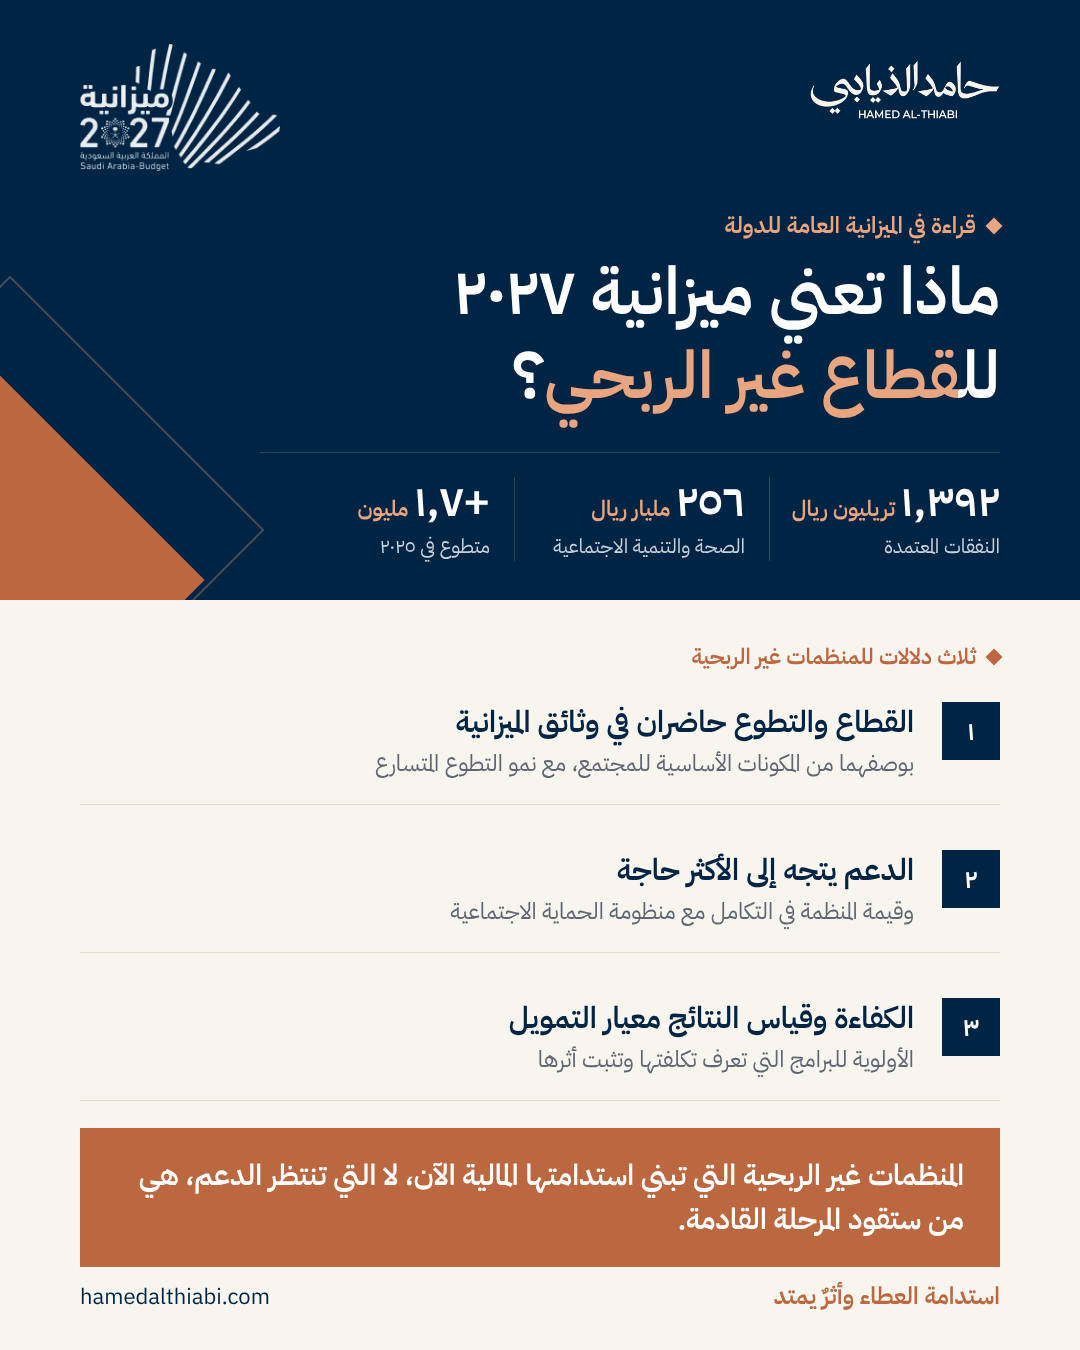
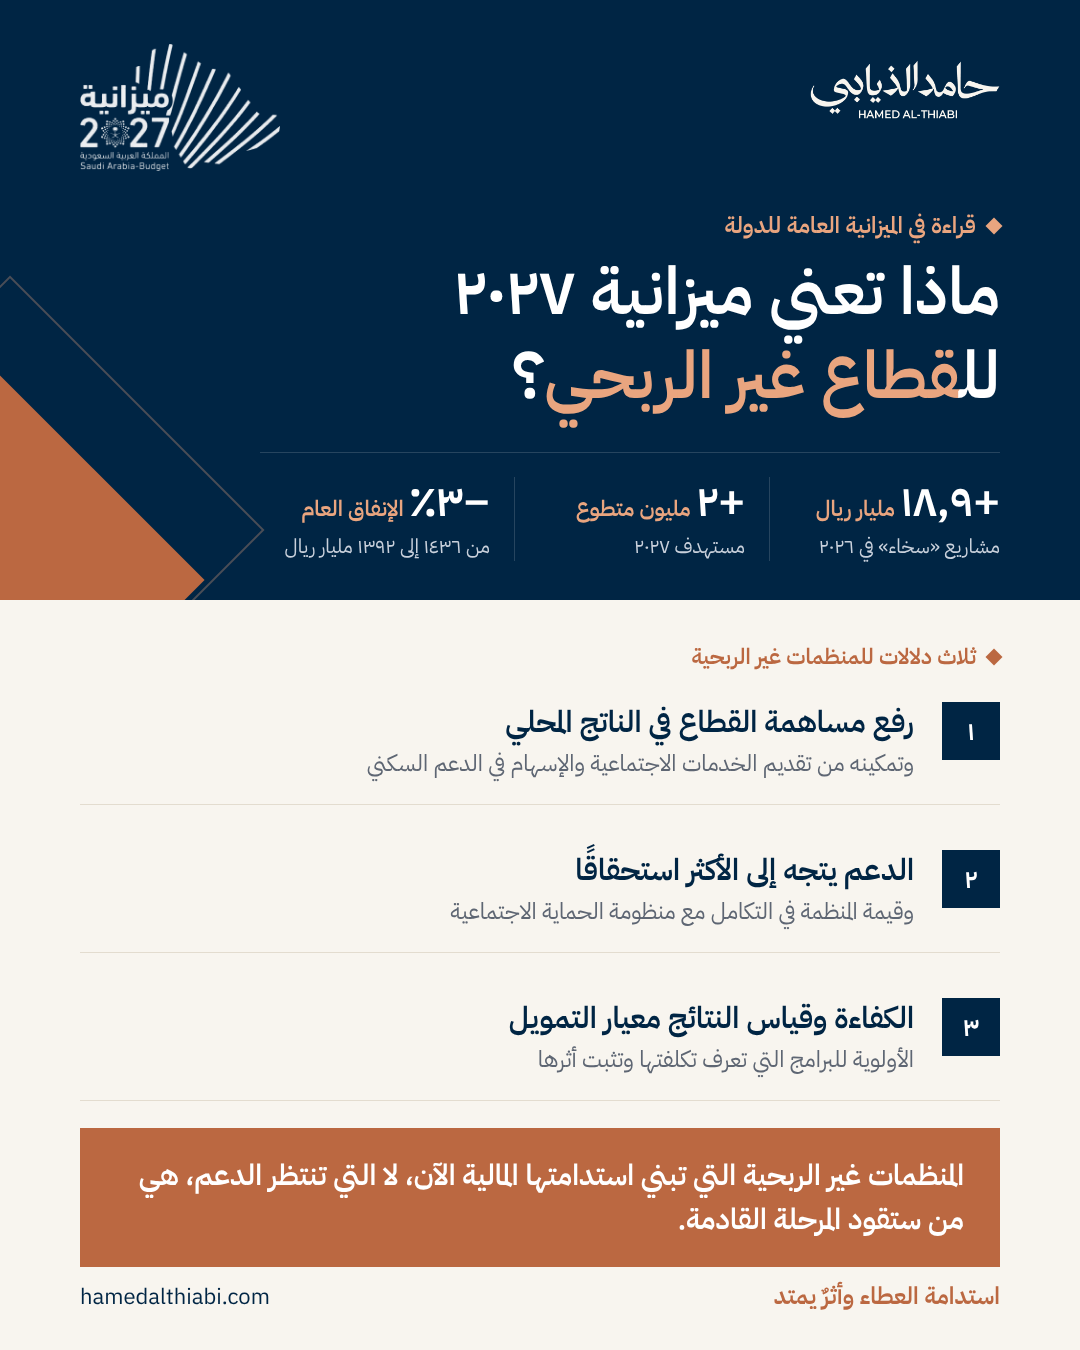
مسودة محدثة لمنشوري الميزانية من البيان النهائي (بانتظار مراجعة تغريد)
Claude-Session: https://claude.ai/code/session_01WaAQ5WJ5sacDNYamjupPhU

diff --git a/agent/designs/2026-11-25-budget-2027.html b/agent/designs/2026-11-25-budget-2027.html
@@ -39,13 +39,13 @@ body{font-family:Ar,La;background:var(--cr);position:relative;color:var(--n)}
 <div class="eye"><i></i>قراءة في الميزانية العامة للدولة</div>
 <div class="title">ماذا تعني ميزانية ٢٠٢٧<br>لل<em>قطاع غير الربحي</em>؟</div>
 <div class="stats">
- <div class="s"><b>١٫٣٩٢<small>تريليون ريال</small></b><span>النفقات المعتمدة</span></div>
- <div class="s"><b>٢٥٦<small>مليار ريال</small></b><span>الصحة والتنمية الاجتماعية</span></div>
- <div class="s"><b>+١٫٧<small>مليون</small></b><span>متطوع في ٢٠٢٥</span></div>
+ <div class="s"><b>+١٨٫٩<small>مليار ريال</small></b><span>مشاريع «سخاء» في ٢٠٢٦</span></div>
+ <div class="s"><b>+٢<small>مليون متطوع</small></b><span>مستهدف ٢٠٢٧</span></div>
+ <div class="s"><b>−٣٪<small>الإنفاق العام</small></b><span>من ١٤٣٦ إلى ١٣٩٢ مليار ريال</span></div>
 </div>
 <div class="sec" style="top:640px"><i></i>ثلاث دلالات للمنظمات غير الربحية</div>
-<div class="row" style="top:680px"><span class="n">١</span><div><h4>القطاع والتطوع حاضران في وثائق الميزانية</h4><p>بوصفهما من المكونات الأساسية للمجتمع، مع نمو التطوع المتسارع</p></div></div>
-<div class="row" style="top:828px"><span class="n">٢</span><div><h4>الدعم يتجه إلى الأكثر حاجة</h4><p>وقيمة المنظمة في التكامل مع منظومة الحماية الاجتماعية</p></div></div>
+<div class="row" style="top:680px"><span class="n">١</span><div><h4>رفع مساهمة القطاع في الناتج المحلي</h4><p>وتمكينه من تقديم الخدمات الاجتماعية والإسهام في الدعم السكني</p></div></div>
+<div class="row" style="top:828px"><span class="n">٢</span><div><h4>الدعم يتجه إلى الأكثر استحقاقًا</h4><p>وقيمة المنظمة في التكامل مع منظومة الحماية الاجتماعية</p></div></div>
 <div class="row" style="top:976px"><span class="n">٣</span><div><h4>الكفاءة وقياس النتائج معيار التمويل</h4><p>الأولوية للبرامج التي تعرف تكلفتها وتثبت أثرها</p></div></div>
 <div class="sum">المنظمات غير الربحية التي تبني استدامتها المالية الآن، لا التي تنتظر الدعم، هي من ستقود المرحلة القادمة.</div>
 <div class="foot"><span class="slog">استدامة العطاء وأثرٌ يمتد</span><span class="url">hamedalthiabi.com</span></div>
